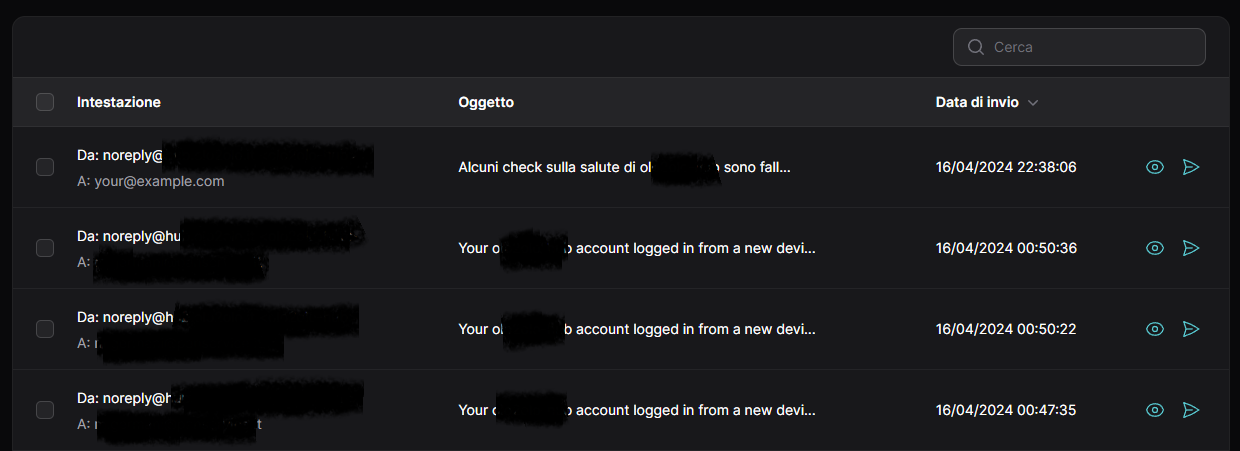
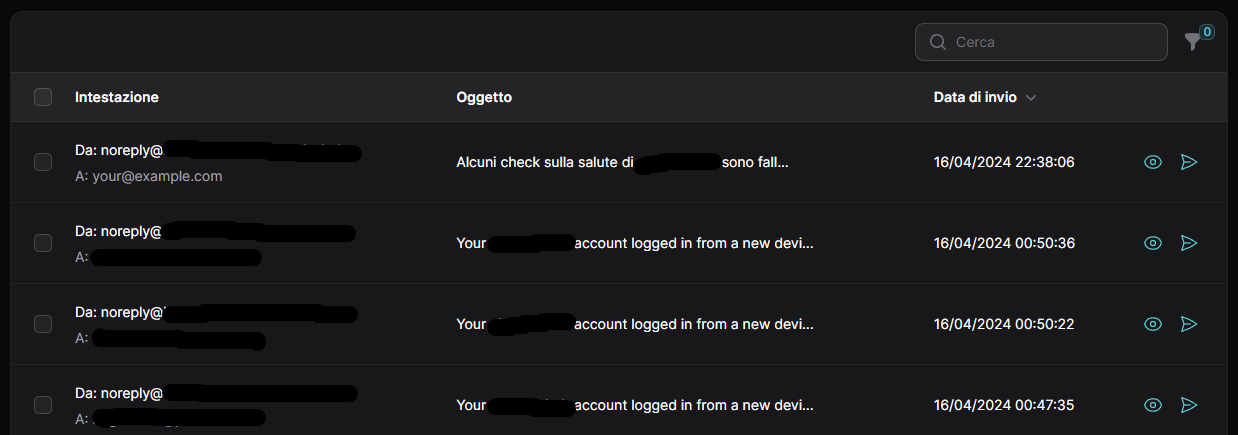
Fixed applySearch for ListEmails page. Updated README and screenshots.

diff --git a/src/Filament/Resources/EmailResource/Pages/ListEmails.php b/src/Filament/Resources/EmailResource/Pages/ListEmails.php
@@ -13,7 +13,7 @@ class ListEmails extends ListRecords
         return config('filament-email.resource.class', EmailResource::class);
     }
 
-    protected function applyFiltersToTableQuery(Builder $query): Builder
+    protected function applySearchToTableQuery(Builder $query): Builder
     {
         if (filled($searchQuery = $this->getTableSearch())) {
             return $query->filter(['search' => $searchQuery]);

diff --git a/README.md b/README.md
@@ -28,7 +28,7 @@ php artisan vendor:publish --tag="filament-email-config"
 
 Register the plugin through your panel service provider:
 ```php
-->plugin(new \MG87\FilamentEmail\FilamentEmail())
+->plugin(new \MG87\FilamentEmail\FilamentEmail::make())
 ```
 
 
@@ -41,6 +41,8 @@ composer test
 ## Screenshots
 
 ![](https://raw.githubusercontent.com/marcogermani87/filament-email/main/screenshots/table.png)
+
+![](https://raw.githubusercontent.com/marcogermani87/filament-email/main/screenshots/filters.png)
 
 ![](https://raw.githubusercontent.com/marcogermani87/filament-email/main/screenshots/re-send.png)
 
